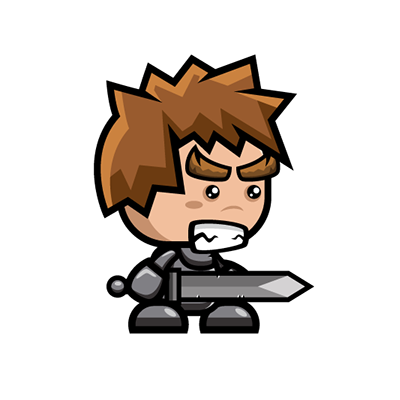
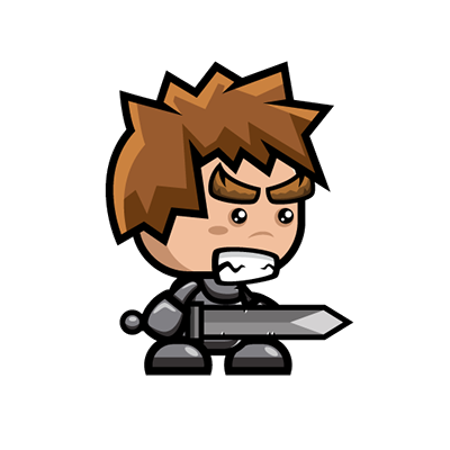
better shop, blinking anim

diff --git a/core/src/com/nf28/ressource/MapTemplate.java b/core/src/com/nf28/ressource/MapTemplate.java
@@ -143,72 +143,4 @@ public class MapTemplate {
     public static void main(String[] args) {
         new MapTemplate().aff(new MapTemplate().generateNextFloor(0));
     }
-
-    // 0 plain
-    // 1 wall
-    // 2 monster
-    // 3 start
-    // 4 nextfloor
-    public static int map[][][] = {
-            {{1, 1, 1, 1, 1, 1, 1, 1, 1, 1},
-                    {0, 3, 1, 0, 0, 1, 2, 0, 0, 0},
-                    {0, 1, 0, 2, 1, 0, 0, 1, 0, 0},
-                    {0, 1, 0, 1, 2, 0, 0, 1, 1, 1},
-                    {0, 2, 0, 0, 0, 1, 2, 0, 2, 0},
-                    {0, 1, 1, 1, 1, 1, 0, 0, 0, 4},
-                    {0, 1, 0, 0, 0, 1, 0, 1, 1, 1},
-                    {2, 1, 0, 0, 0, 1, 0, 1, 0, 1},
-                    {0, 1, 1, 2, 1, 1, 1, 1, 0, 1},
-                    {0, 2, 0, 0, 0, 0, 0, 2, 0, 1}},
-
-<<<<<<< HEAD
-            {{0, 0, 0, 0, 0, 0, 0, 0, 0, 1},
-                    {0, 0, 0, 0, 0, 0, 0, 0, 0, 0},
-                    {0, 0, 0, 0, 0, 0, 0, 0, 0, 0},
-                    {0, 0, 0, 0, 0, 0, 0, 0, 0, 0},
-                    {0, 0, 0, 0, 0, 0, 0, 0, 0, 0},
-                    {0, 0, 0, 0, 0, 0, 0, 0, 0, 0},
-                    {0, 0, 0, 0, 0, 0, 0, 0, 0, 0},
-                    {0, 0, 0, 0, 0, 0, 0, 0, 0, 0},
-                    {0, 0, 0, 0, 0, 0, 0, 0, 0, 0},
-                    {0, 0, 0, 0, 0, 0, 0, 0, 0, 0}},
-=======
-                    {{0, 0, 0, 0, 0, 0, 0, 0, 0, 1},
-                    {0, 0, 1, 1, 0, 1, 1, 0, 1, 1},
-                    {1, 0, 0, 1, 0, 1, 0, 0, 0, 0},
-                    {0, 1, 0, 0, 0, 0, 1, 1, 0, 1},
-                    {0, 1, 0, 1, 0, 0, 0, 0, 0, 1},
-                    {0, 0, 0, 0, 1, 1, 0, 0, 0, 1},
-                    {3, 1, 1, 0, 0, 0, 0, 0, 1, 1},
-                    {0, 1, 1, 0, 1, 1, 0, 0, 1, 1},
-                    {0, 1, 1, 0, 0, 0, 1, 0, 1, 1},
-                    {0, 0, 0, 0, 0, 0, 1, 0, 0, 4}},
->>>>>>> 055d38178bff7c6ead7db11532d20fb78d106bc2
-
-            {{0, 0, 0, 0, 0, 0, 0, 0, 0, 0},
-                    {0, 0, 0, 0, 0, 0, 0, 0, 0, 1},
-                    {0, 0, 0, 0, 0, 0, 0, 0, 0, 0},
-                    {0, 0, 0, 0, 0, 0, 0, 0, 0, 0},
-                    {0, 0, 0, 0, 0, 0, 0, 0, 0, 0},
-                    {0, 0, 0, 0, 0, 0, 0, 0, 0, 0},
-                    {0, 0, 0, 0, 0, 0, 0, 0, 0, 0},
-                    {0, 0, 0, 0, 0, 0, 0, 0, 0, 0},
-                    {0, 0, 0, 0, 0, 0, 0, 0, 0, 0},
-                    {0, 0, 0, 0, 0, 0, 0, 0, 0, 0}},
-
-
-            {{0, 0, 0, 0, 0, 0, 0, 0, 0, 0},
-                    {0, 0, 0, 0, 0, 0, 0, 0, 0, 0},
-                    {0, 0, 0, 0, 0, 0, 0, 0, 0, 0},
-                    {0, 0, 0, 0, 0, 0, 0, 0, 0, 1},
-                    {0, 0, 0, 0, 0, 0, 0, 0, 0, 0},
-                    {0, 0, 0, 0, 0, 0, 0, 0, 0, 0},
-                    {0, 0, 0, 0, 0, 0, 0, 0, 0, 0},
-                    {0, 0, 0, 0, 0, 0, 0, 0, 0, 0},
-                    {0, 0, 0, 0, 0, 0, 0, 0, 0, 0},
-                    {0, 0, 0, 0, 0, 0, 0, 0, 0, 0}}
-
-
-    };
-
 }

diff --git a/core/src/com/nf28/game/BattleScreen.java b/core/src/com/nf28/game/BattleScreen.java
@@ -8,6 +8,7 @@ import com.badlogic.gdx.graphics.Texture;
 import com.badlogic.gdx.graphics.g2d.TextureRegion;
 import com.badlogic.gdx.scenes.scene2d.InputEvent;
 import com.badlogic.gdx.scenes.scene2d.Stage;
+import com.badlogic.gdx.scenes.scene2d.actions.Actions;
 import com.badlogic.gdx.scenes.scene2d.ui.Image;
 import com.badlogic.gdx.scenes.scene2d.ui.Label;
 import com.badlogic.gdx.scenes.scene2d.ui.Skin;
@@ -21,12 +22,12 @@ import com.nf28.model.Vocabulary;
 
 import java.util.HashMap;
 import java.util.Map;
+import java.util.Random;
 
 /**
  * Created by Clément on 11/05/2017.
  */
 public class BattleScreen implements Screen {
-
 
     Skin skin;
     VocabularyQuest game;
@@ -39,8 +40,8 @@ public class BattleScreen implements Screen {
     Label currentWordLabel ;
     Table answerTable;
     Vocabulary vocab = new Vocabulary();
-    Image goodguyImage = new Image();
-    Image badguyImage = new Image();
+    BlinkImage goodguyImage = new BlinkImage();
+    BlinkImage badguyImage = new BlinkImage();
     String currentWord;
     int badguylife=5;
     int badguyMaxHP=5;
@@ -57,10 +58,9 @@ public class BattleScreen implements Screen {
         currentWordLabel = new Label(currentWord,skin);
         desc = new Label("Attack",skin);
         table = new Table();
-        table.debug();
         table.setFillParent(true);
         goodguyImage.setDrawable(new TextureRegionDrawable(new TextureRegion(new Texture(game.heros.getImageUrl()))));
-        badguyImage.setDrawable(new TextureRegionDrawable(new TextureRegion(new Texture("tiles/character.png"))));
+        badguyImage.setDrawable(new TextureRegionDrawable(new TextureRegion(new Texture("character/monster" + new Random().nextInt(1)+".png"))));
         goodguyImage.setScaling(Scaling.fit);
         badguyImage.setScaling(Scaling.fit);
         goodguyLifeLabel = new Label("",skin);
@@ -108,10 +108,15 @@ public class BattleScreen implements Screen {
     }
 
     public void buttonClicked(String i){
-            if (isAttacking && vocab.get(currentWord).equals(i))
-            badguylife--;
-        else if(!isAttacking && !vocab.get(currentWord).equals(i))
-            game.heros.setHp(game.heros.getHp()-1);
+            if (isAttacking && vocab.get(currentWord).equals(i)) {
+                badguylife--;
+                badguyImage.activate();
+
+            }
+        else if(!isAttacking && !vocab.get(currentWord).equals(i)) {
+                game.heros.setHp(game.heros.getHp() - 1);
+                goodguyImage.activate();
+            }
         isAttacking = !isAttacking;
         currentWord = vocab.getWord();
         refresh();

diff --git a/core/src/com/nf28/game/ShopScreen.java b/core/src/com/nf28/game/ShopScreen.java
@@ -37,6 +37,7 @@ public class ShopScreen implements Screen {
     VocabularyQuest game;
     Stage stage;
     int currentPage = 0;
+    Image current;
     List<String> listUrl = new ArrayList<String>();
     List<String> listPrice = new ArrayList<String>();
     List<String> listName = new ArrayList<String>();
@@ -56,7 +57,6 @@ public class ShopScreen implements Screen {
         table.setFillParent(true);
         FileHandle file = Gdx.files.internal("character/character_list.json");
         String text = file.readString();
-        table.setDebug(true);
         JsonValue json = new JsonReader().parse(text);
         JsonValue jsonobj = json.get("character");
         int cpt=1;
@@ -91,8 +91,11 @@ public class ShopScreen implements Screen {
         table.add(button_left).height(100).expand().fill();
         TextButton button_right =new TextButton(">",skin);
         table.add(button_right).height(100).expand().fill();
+        current = new Image();
+        current.setDrawable(new TextureRegionDrawable(new TextureRegion(new Texture(game.heros.getImageUrl()))));
+        table.add(current).colspan(2);;
         final TextButton retour =new TextButton("Retour",skin);
-        table.add(retour).expand().fill();
+        table.add(retour).expand().fill().colspan(2);;
         table.row();
         retour.addListener(new ClickListener() {
             @Override
@@ -138,7 +141,7 @@ public class ShopScreen implements Screen {
                 break;
             imageList.get(i).setDrawable(new TextureRegionDrawable(new TextureRegion(new Texture("character/" + listUrl.get(page * 9 + i)))));
             String url=listUrl.get(page * 9 + i);
-            imageList.get(i).addListener(new buyListener(url));
+            imageList.get(i).addListener(new buyListener(url,imageList.get(i)));
             nameLabelList.get(i).setText(listName.get(page * 9 + i));
             priceLabelList.get(i).setText(listPrice.get(page * 9 + i));
         }
@@ -182,12 +185,17 @@ public class ShopScreen implements Screen {
     }
     class buyListener extends ClickListener{
         String url;
-        public buyListener(String url){
+        Image image;
+        public buyListener(String url,Image image){
             this.url=url;
+            this.url=url;
+            this.image=image;
+
         }
         @Override
         public void clicked(InputEvent event, float x, float y) {
            game.heros.setImageUrl("character/"+this.url);
+            current.setDrawable(new TextureRegionDrawable(new TextureRegion(new Texture(game.heros.getImageUrl()))));
         }
     }
 }

diff --git a/core/src/com/nf28/model/Heros.java b/core/src/com/nf28/model/Heros.java
@@ -13,7 +13,7 @@ public class Heros {
     int skin;
     int exp;
 
-    String imageUrl="tiles/character.png";
+    String imageUrl="character/character.png";
 
     public void setImageUrl(String imageUrl) {
         this.imageUrl = imageUrl;
